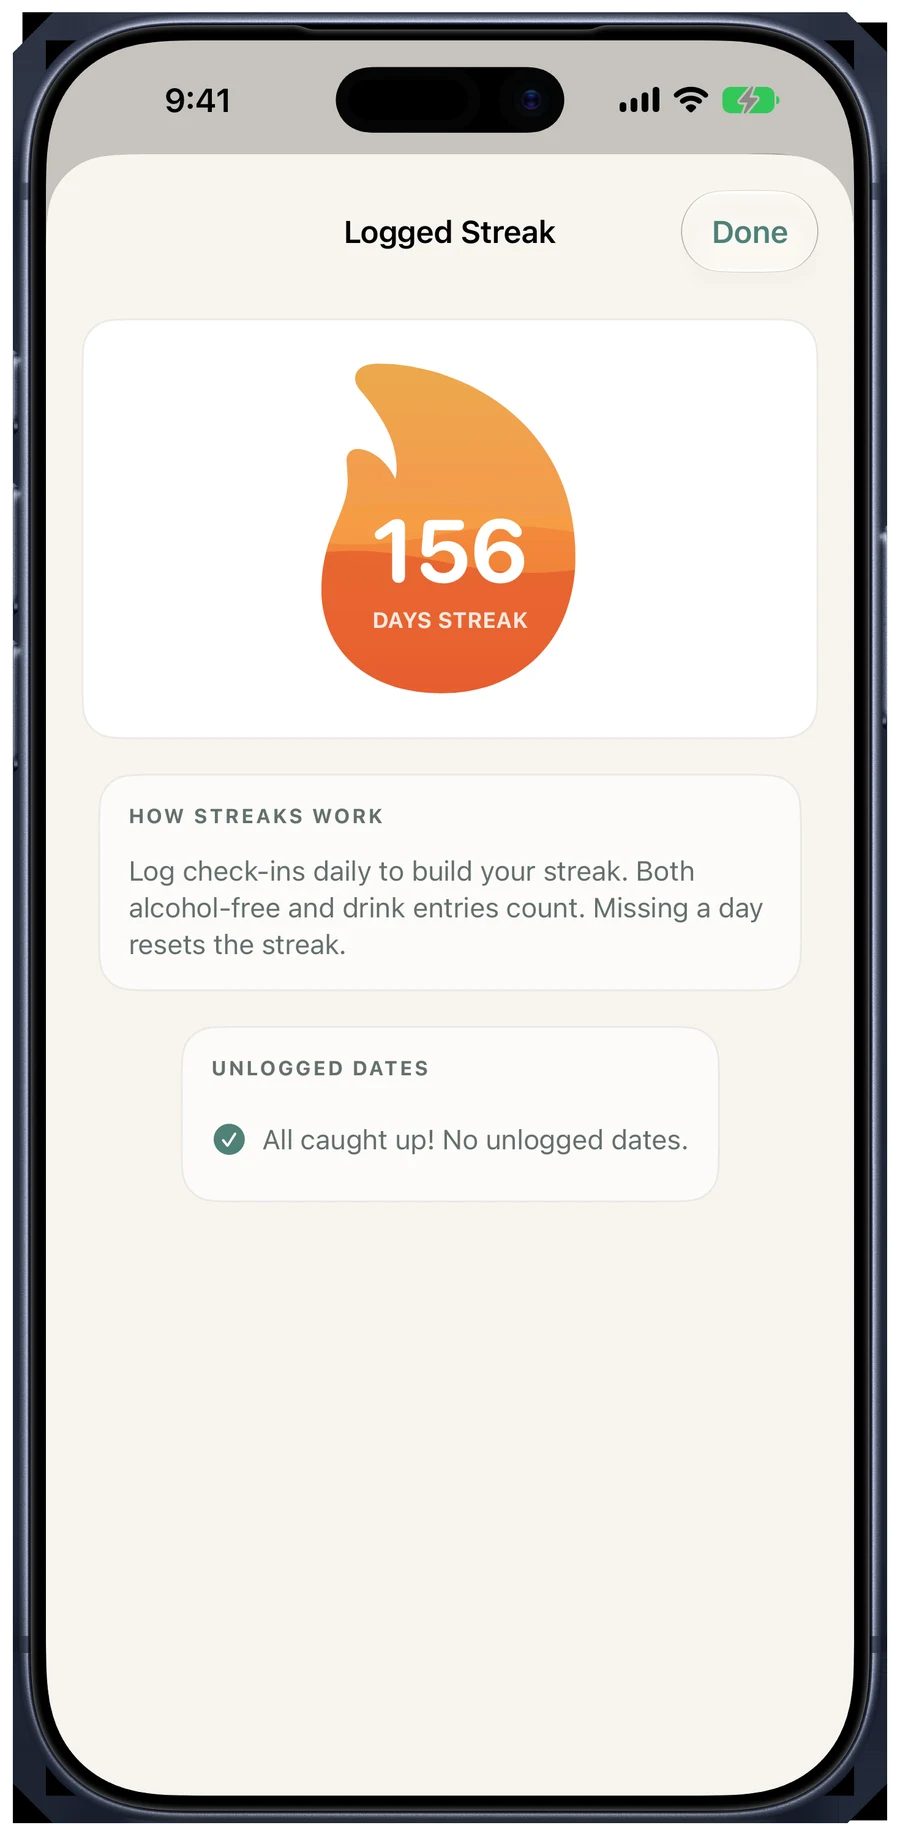
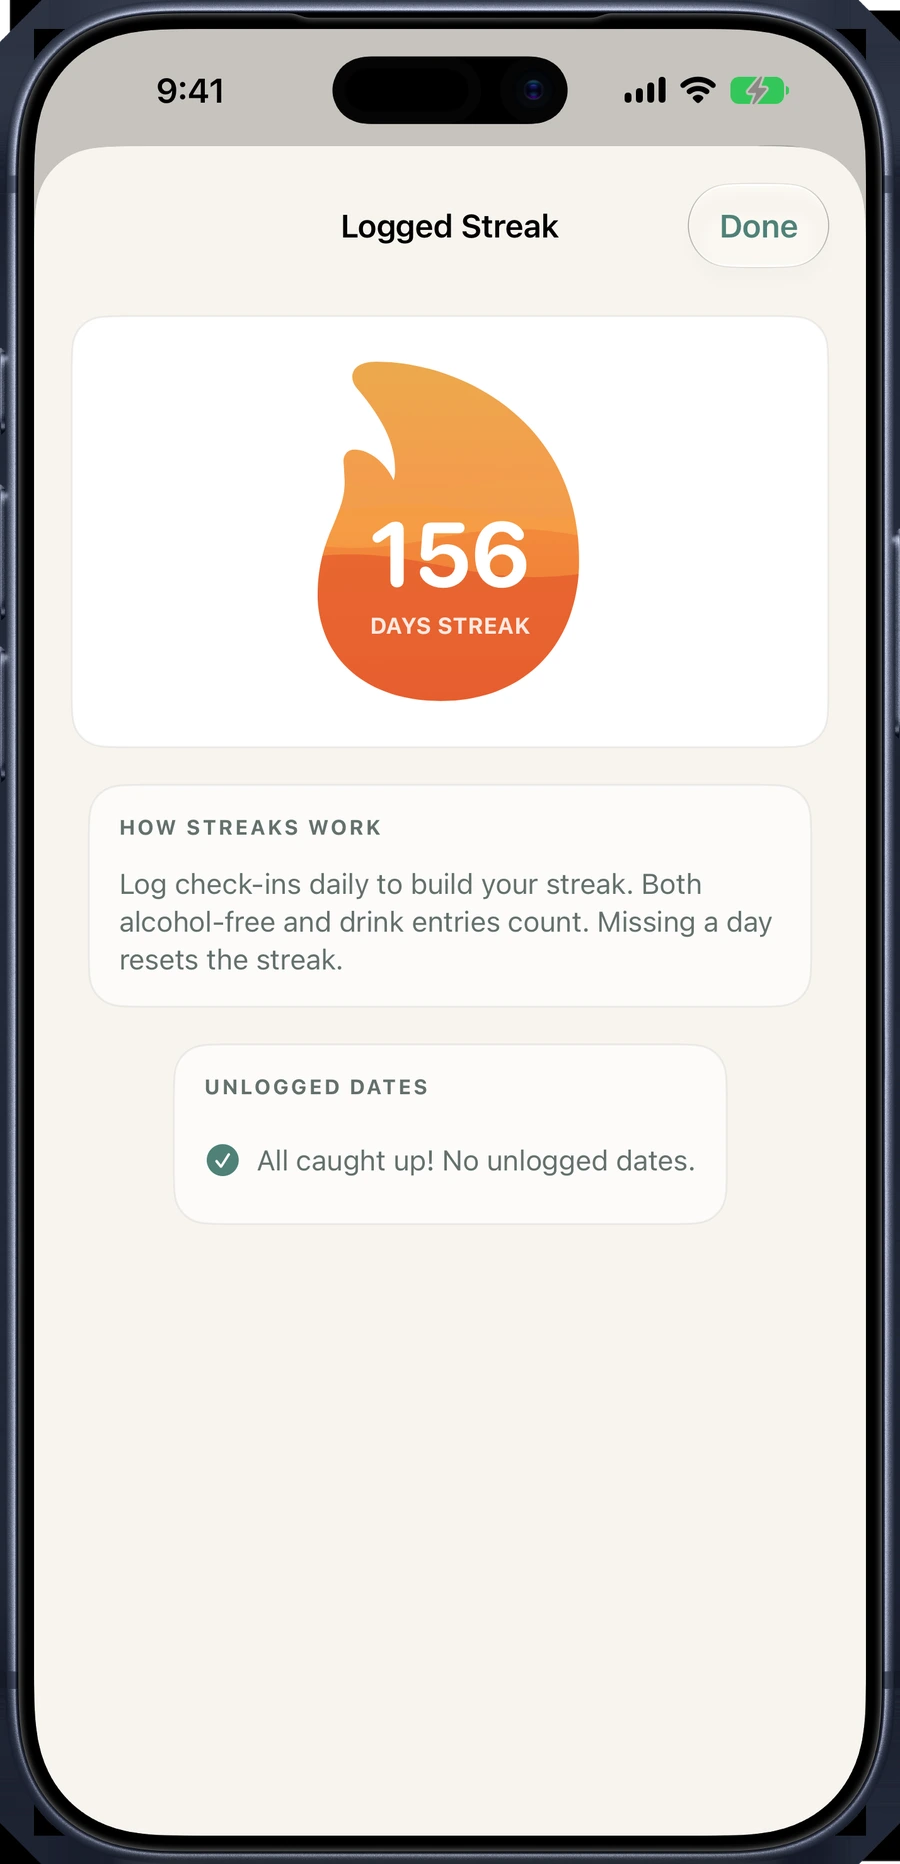
fix(assets): remove white border and padding from device mockups with clean RGBA transparency

diff --git a/styles.css b/styles.css
@@ -328,10 +328,10 @@ h1 {
   width: min(450px, 94%);
   max-width: 100%;
   height: auto;
-  border: 9px solid #151816;
-  border-radius: 58px;
-  background: #151816;
-  box-shadow: 0 42px 96px rgba(19, 34, 46, 0.24), 0 12px 30px rgba(19, 34, 46, 0.15);
+  border: none;
+  border-radius: 0;
+  background: transparent;
+  filter: drop-shadow(0 32px 72px rgba(19, 34, 46, 0.28)) drop-shadow(0 10px 24px rgba(19, 34, 46, 0.16));
   transform: rotate(1.2deg);
 }
 
@@ -1502,8 +1502,8 @@ h1 {
 
   .hero-phone {
     width: min(clamp(340px, 38vw, 420px), 84%);
-    border-width: 8px;
-    border-radius: 52px;
+    border: none;
+    border-radius: 0;
     aspect-ratio: 540 / 1174;
     height: auto;
   }
@@ -1628,8 +1628,8 @@ h1 {
 
   .hero-phone {
     width: 290px;
-    border-width: 7px;
-    border-radius: 48px;
+    border: none;
+    border-radius: 0;
     transform: none;
   }
 
@@ -1976,8 +1976,9 @@ body {
 
 .app-pitch-card img {
   width: 100%;
-  border-radius: 18px;
-  box-shadow: 0 14px 34px rgba(0, 0, 0, 0.35);
+  border-radius: 0;
+  box-shadow: none;
+  filter: drop-shadow(0 16px 36px rgba(0, 0, 0, 0.45));
 }
 
 .guide-sidebar {
